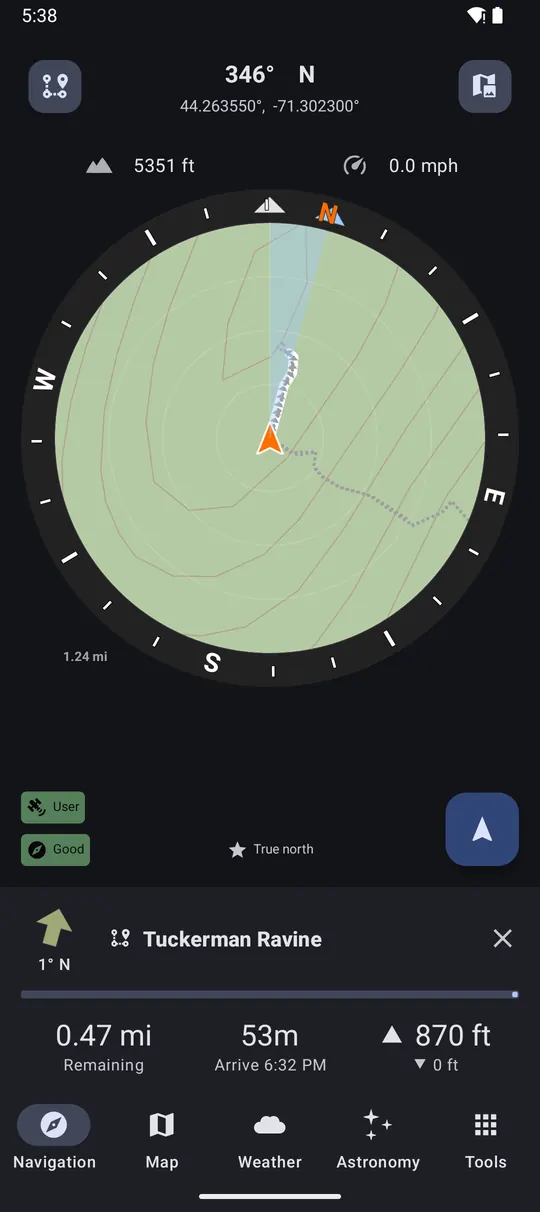
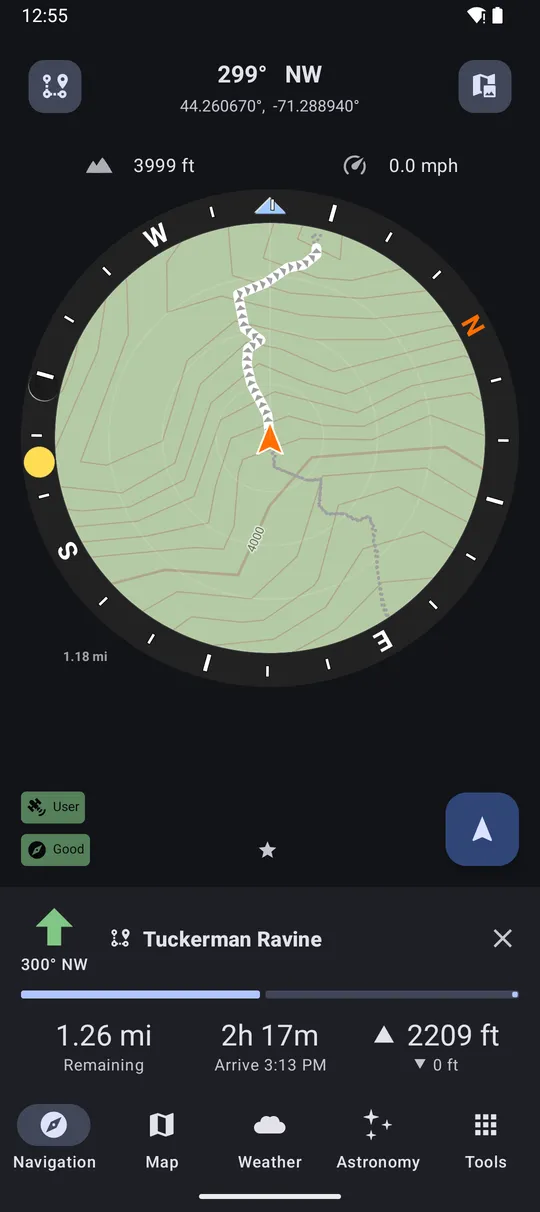
site: update navigation screenshot

diff --git a/app/src/androidTest/java/com/kylecorry/trail_sense/screenshots/StoreScreenshotsTest.kt b/app/src/androidTest/java/com/kylecorry/trail_sense/screenshots/StoreScreenshotsTest.kt
@@ -4,12 +4,15 @@ import android.net.Uri
 import android.os.ParcelFileDescriptor
 import androidx.test.platform.app.InstrumentationRegistry
 import com.kylecorry.andromeda.core.cache.DependencyRegistry
+import com.kylecorry.andromeda.files.AssetFileSystem
+import com.kylecorry.andromeda.files.CacheFileSystem
 import com.kylecorry.luna.result.Result
 import com.kylecorry.sol.science.geology.CoordinateBounds
 import com.kylecorry.sol.units.Coordinate
 import com.kylecorry.trail_sense.R
 import com.kylecorry.trail_sense.main.getAppService
 import com.kylecorry.trail_sense.shared.UserPreferences
+import com.kylecorry.trail_sense.shared.dem.DigitalElevationModelLoader
 import com.kylecorry.trail_sense.shared.dem.map_layers.ContourGeoJsonSource
 import com.kylecorry.trail_sense.shared.dem.map_layers.HillshadeMapTileSource
 import com.kylecorry.trail_sense.shared.extensions.findNavController
@@ -57,6 +60,7 @@ import java.time.Instant
 import java.time.LocalDate
 import java.time.LocalTime
 import java.time.ZonedDateTime
+import kotlinx.coroutines.flow.collect
 import kotlin.math.PI
 import kotlin.math.pow
 import kotlin.math.sin
@@ -88,6 +92,7 @@ import java.time.format.DateTimeFormatter
 class StoreScreenshotsTest : ToolTestBase(Tools.NAVIGATION, STEERE_HILL) {
 
     private var timeShiftMillis = 0L
+    private var loadedDem = false
 
     override fun seedData() {
         setUpDisplay()
@@ -100,6 +105,9 @@ class StoreScreenshotsTest : ToolTestBase(Tools.NAVIGATION, STEERE_HILL) {
             Tools.getService(context, PathsToolRegistration.SERVICE_BACKTRACK)?.disable()
         }
         restoreSystemTime()
+        if (loadedDem) {
+            runBlocking { DigitalElevationModelLoader().clear() }
+        }
         TestUtils.runShellCommand("wm size reset")
         TestUtils.runShellCommand("wm density reset")
         demoMode("exit")
@@ -194,16 +202,19 @@ class StoreScreenshotsTest : ToolTestBase(Tools.NAVIGATION, STEERE_HILL) {
     @Test
     fun heroNavigation() {
         val tuckerman = TestData.loadGpxPoints("paths/tuckermans ravine.gpx")
-        val onTheTrail = tuckerman[TUCKERMAN_CURRENT_INDEX].coordinate
-        open(Tools.NAVIGATION, onTheTrail, tuckerman[TUCKERMAN_CURRENT_INDEX].elevation ?: 0f) {
-            // Twice as far out as the default, to see more of the trail
+        val current = tuckerman[TUCKERMAN_CURRENT_INDEX]
+        // The route is built from where navigation starts, so start down the trail and hike up
+        val start = tuckerman[TUCKERMAN_START_INDEX]
+        open(Tools.NAVIGATION, start.coordinate, start.elevation ?: 0f) {
+            loadHighResolutionDem()
+            // Further out than the default, to see more of the trail
             PreferencesSubsystem.getInstance(context).preferences
-                .putFloat("cache_radar_compass_state_scale", 4f)
+                .putFloat("cache_radar_compass_state_scale", 3.8f)
             showCompassLayers(
                 BaseMapTileSource.SOURCE_ID,
                 ContourGeoJsonSource.SOURCE_ID,
-                NavigationGeoJsonSource.SOURCE_ID,
                 PathGeoJsonSource.SOURCE_ID,
+                NavigationGeoJsonSource.SOURCE_ID,
                 BeaconGeoJsonSource.SOURCE_ID,
                 MyLocationGeoJsonSource.SOURCE_ID
             )
@@ -216,7 +227,12 @@ class StoreScreenshotsTest : ToolTestBase(Tools.NAVIGATION, STEERE_HILL) {
             }
         }
         isVisible(R.id.navigation_sheet_title, waitForTime = 15000)
-        capture("hero_navigation", settle = 4000)
+        UserPreferences(context).altitudeOverride = current.elevation ?: 0f
+        // Jumping far along the path is only accepted once a second update confirms it
+        TestUtils.setLocationOverride(tuckerman[TUCKERMAN_CURRENT_INDEX - 1].coordinate)
+        delay(4000)
+        TestUtils.setLocationOverride(current.coordinate)
+        capture("hero_navigation", settle = 6000)
     }
 
     @Test
@@ -249,6 +265,25 @@ class StoreScreenshotsTest : ToolTestBase(Tools.NAVIGATION, STEERE_HILL) {
         UserPreferences(context).altitudeOverride = elevation
         seed()
         scenario = TestUtils.startWithTool(toolId) { navController = it.findNavController()!! }
+    }
+
+    /**
+     * Replaces the built-in elevation model with the high resolution one, if it was added to the
+     * test assets (it is too large to commit).
+     */
+    private fun loadHighResolutionDem() {
+        val assets = AssetFileSystem(InstrumentationRegistry.getInstrumentation().context)
+        if (!assets.list("dem").contains(HIGH_DEM_ASSET)) {
+            return
+        }
+        val cache = CacheFileSystem(context)
+        runBlocking {
+            cache.outputStream(HIGH_DEM_ASSET).use { output ->
+                assets.stream("dem/$HIGH_DEM_ASSET").use { it.copyTo(output) }
+            }
+            DigitalElevationModelLoader().load(cache.getUri(HIGH_DEM_ASSET)).collect()
+        }
+        loadedDem = true
     }
 
     private fun setMapResolution(metersPerPixel: Float) {
@@ -498,6 +533,7 @@ class StoreScreenshotsTest : ToolTestBase(Tools.NAVIGATION, STEERE_HILL) {
             )
         }
 
+        const val HIGH_DEM_ASSET = "dem-0.6.0-high.zip"
         const val SCREENSHOT_DIRECTORY = "Pictures/TrailSenseStoreScreenshots"
         const val TRAIL_MAP_DEVICE_PATH = "/data/local/tmp/rhode-island.map"
 
@@ -516,9 +552,10 @@ class StoreScreenshotsTest : ToolTestBase(Tools.NAVIGATION, STEERE_HILL) {
         )
 
         // Indices into the Tuckerman Ravine GPX, which goes up from Pinkham Notch and back down
-        // Heading about north on the trail, which is the direction the emulator's compass reads
-        // so the user is already facing where the path goes (about half a mile from the summit)
-        const val TUCKERMAN_CURRENT_INDEX = 92
+        // About a mile and a quarter from the summit. The emulator's compass has to face the trail
+        // (about 299 degrees true): adb emu sensor set magnetic-field 34.9:9.9:-32.5
+        const val TUCKERMAN_START_INDEX = 20
+        const val TUCKERMAN_CURRENT_INDEX = 68
         const val TUCKERMAN_SUMMIT_INDEX = 110
 
         // Partway around the Durfee Hill loop, the map hero's hike
